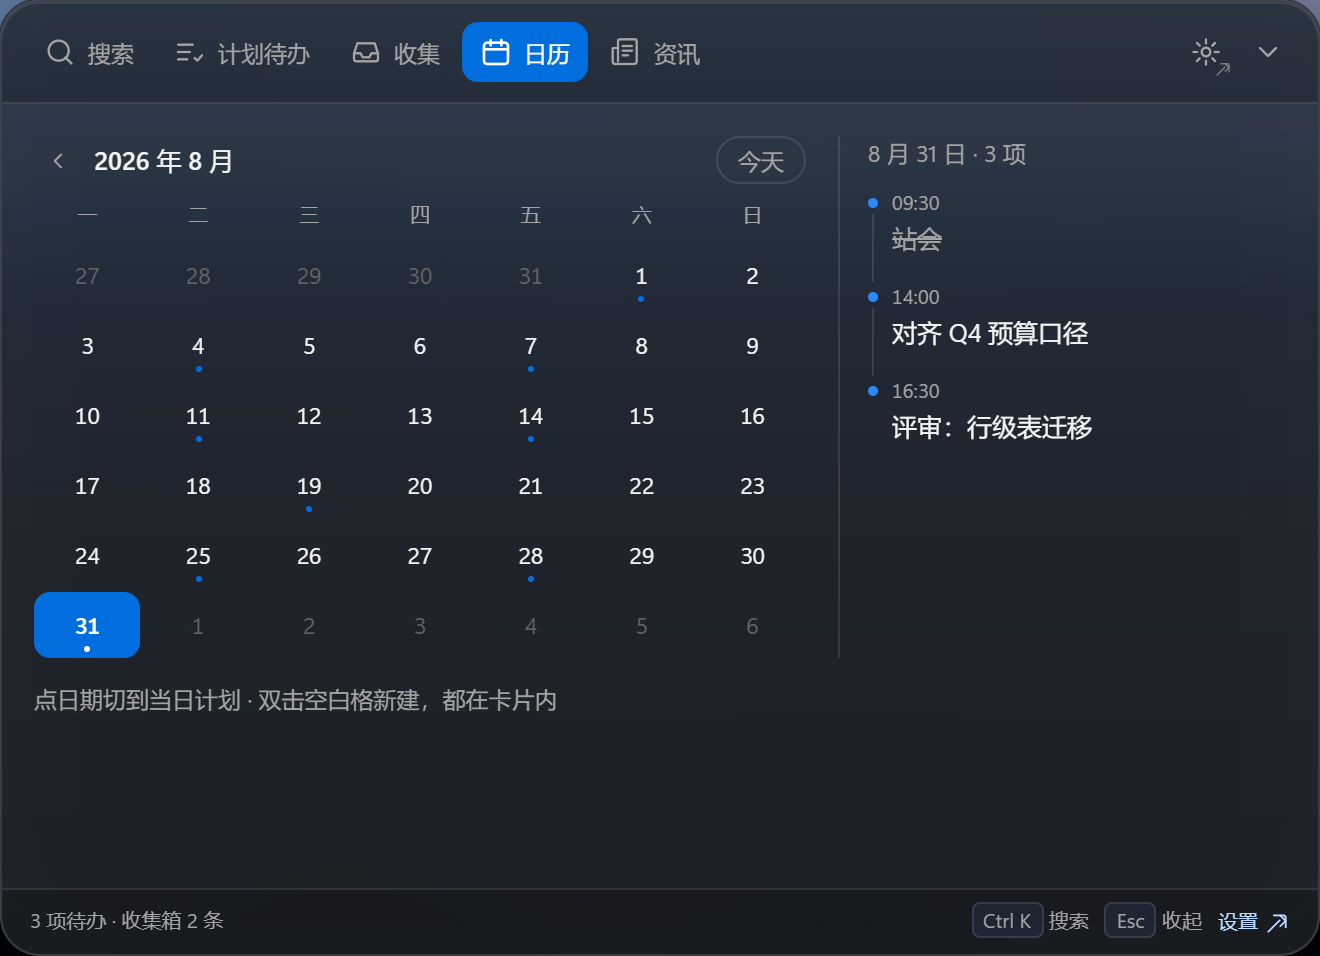
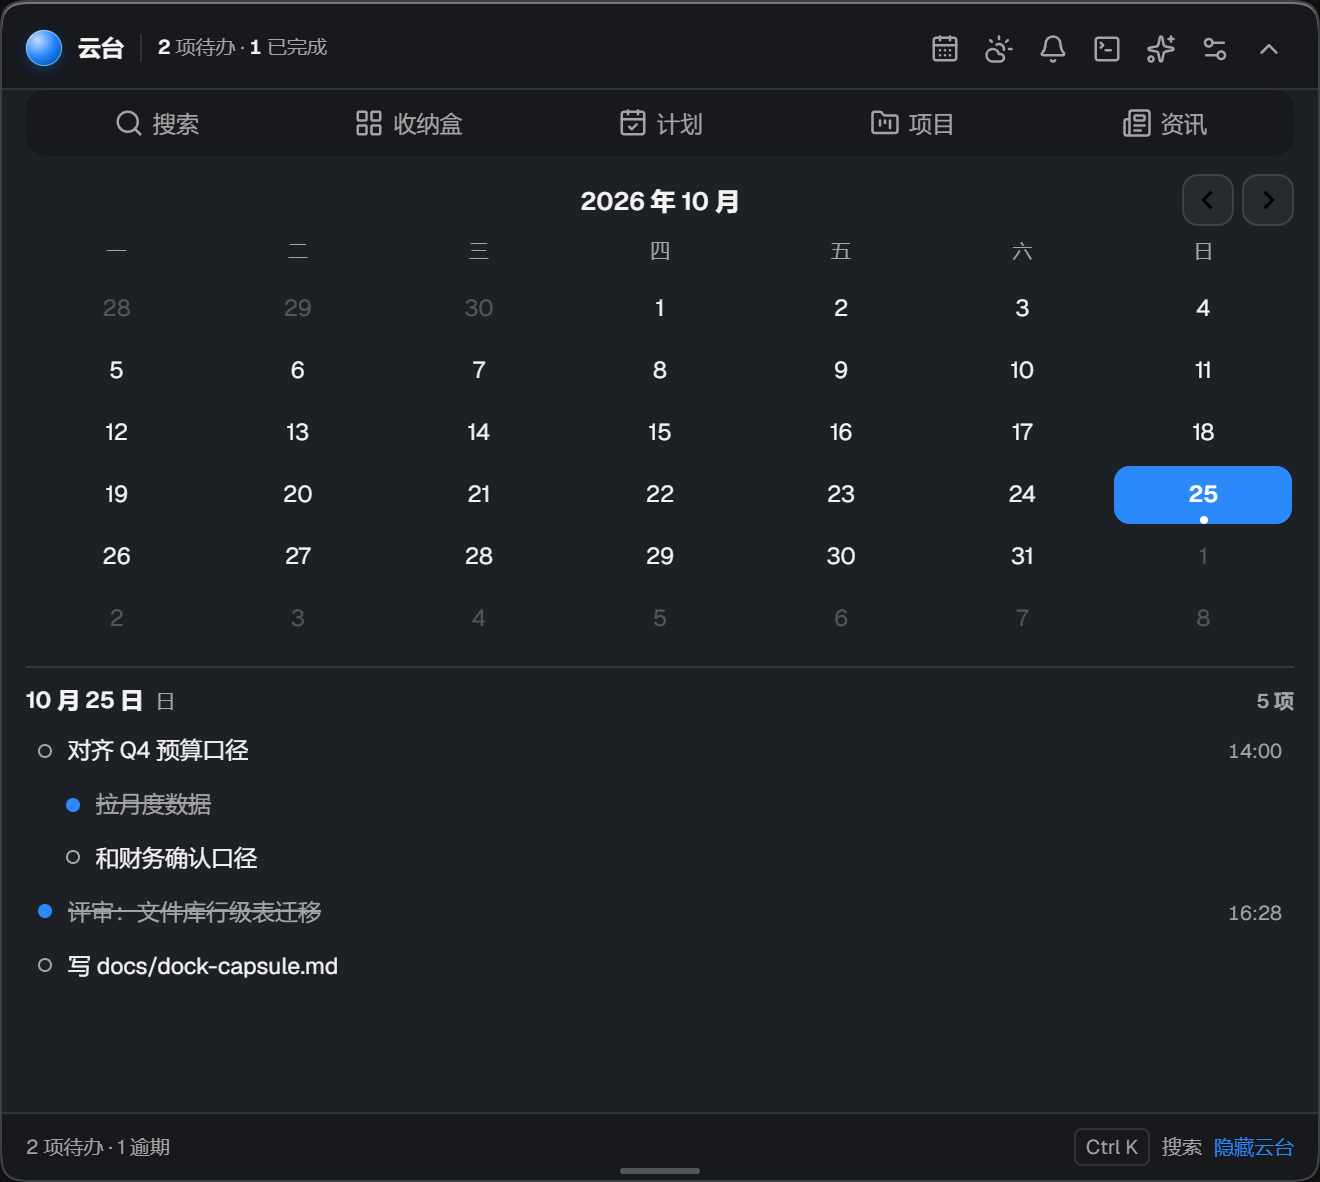
feat(桌面Dock)：日历换成 react-day-picker，固定六周避免切月时卡片跳高

diff --git a/src/features/desktop/dock-float.tsx b/src/features/desktop/dock-float.tsx
@@ -8,7 +8,7 @@ import {
   Bell, CalendarDays, CloudSun, FolderKanban, SquareTerminal, Inbox, LayoutGrid, Newspaper, Rss, Search, Send, Settings2, Sparkles, Star, Trash2,
 } from "lucide-react";
 import { usePlans } from "@/features/plans/store";
-import { todayStr } from "@/features/plans/types";
+import { todayStr, type PlanTask } from "@/features/plans/types";
 import { openSearchResult, searchQuery } from "@/features/search/api";
 import type { SearchHit } from "@/features/search/types";
 import { mergedSources } from "@/sources/custom";
@@ -18,7 +18,7 @@ import { useFavorites } from "@/stores/favorites";
 import { ArticleReader } from "@/features/feeds/article-reader";
 import { openUrl } from "@/lib/tauri";
 import { useSettings } from "@/stores/settings";
-import { SchedulePage } from "@/features/schedule/page";
+import { DayPicker, type DayProps } from "react-day-picker";
 import { chatWithProvider, type ChatMessage } from "@/features/ai/client";
 import { ageBucket, dateKey, summarizeDay } from "./dock-float-core";
 import "./dock-float.css";
@@ -346,7 +346,7 @@ export function DockFloat({ onExpand, onHide, panels }: {
               <div className="df-collect">{panels.capture}</div>
             )}
             {tab === "news" && <NewsPanel />}
-            {tab === "cal" && <div className="df-embed"><SchedulePage /></div>}
+            {tab === "cal" && <CalendarPanel />}
             {tab === "chat" && <div className="df-body-inner"><ChatPanel onClose={() => setTab("search")} /></div>}
             {tab === "weather" && <WeatherPanel />}
             {tab === "notice" && <NoticePanel onOpenPlans={() => setTab("plans")} />}
@@ -548,6 +548,133 @@ function NewsPanel() {
           </div>
         );
       })}
+    </div>
+  );
+}
+
+/**
+ * 日历页：react-day-picker + 项目 token。
+ *
+ * **不 import 它自带的 style.css**：默认样式表会覆盖 tokens 的字号、圆角与颜色。
+ * 这里只用 classNames / components.Day 接结构，所有视觉值都走 var(--...)；
+ * fixedWeeks 保证 6 行恒定，切月份不会把卡片高度顶来顶去。
+ */
+function CalendarDay({ day, modifiers, className, children, ...props }: DayProps) {
+  return (
+    <td
+      {...props}
+      data-date={dateKey(day.date)}
+      className={["df-calpicker-cell", className, modifiers.hasTasks ? "has-tasks" : ""]
+        .filter(Boolean)
+        .join(" ")}
+    >
+      {children}
+      {modifiers.hasTasks && <span className="df-calpicker-dot" aria-hidden="true" />}
+    </td>
+  );
+}
+
+function CalendarPanel() {
+  const { t } = useTranslation();
+  const days = usePlans((state) => state.days);
+  const [selectedDate, setSelectedDate] = useState(() => new Date());
+
+  const hasTasks = useCallback(
+    (date: Date) => (days[dateKey(date)]?.length ?? 0) > 0,
+    [days],
+  );
+
+  /** 当天条目按树展开：父任务在前，子任务缩进跟在后面。 */
+  const rows = useMemo(() => {
+    const tasks = days[dateKey(selectedDate)] ?? [];
+    const output: { task: PlanTask; depth: number }[] = [];
+    const seen = new Set<string>();
+    const walk = (parentId: string | null, depth: number) => {
+      for (const task of tasks) {
+        if (task.parentId !== parentId) continue;
+        seen.add(task.id);
+        output.push({ task, depth });
+        walk(task.id, depth + 1);
+      }
+    };
+    walk(null, 0);
+    // 数据异常时别把孤儿任务吞掉（父 id 指向已删除的条目）
+    for (const task of tasks) if (!seen.has(task.id)) output.push({ task, depth: 0 });
+    return output;
+  }, [days, selectedDate]);
+
+  const weekday = ["su", "mo", "tu", "we", "th", "fr", "sa"][selectedDate.getDay()];
+  return (
+    <div className="df-calendar">
+      <DayPicker
+        mode="single"
+        selected={selectedDate}
+        onSelect={(date) => { if (date) setSelectedDate(date); }}
+        showOutsideDays
+        fixedWeeks
+        weekStartsOn={1}
+        modifiers={{ hasTasks }}
+        modifiersClassNames={{ hasTasks: "has-tasks" }}
+        components={{ Day: CalendarDay }}
+        formatters={{
+          formatCaption: (month) =>
+            t("dockFloat.calendarMonth", { year: month.getFullYear(), month: month.getMonth() + 1 }),
+          formatWeekdayName: (date) =>
+            t(`dockFloat.week.${["su", "mo", "tu", "we", "th", "fr", "sa"][date.getDay()]}`),
+        }}
+        labels={{
+          labelPrevious: () => t("dockFloat.prevMonth"),
+          labelNext: () => t("dockFloat.nextMonth"),
+        }}
+        classNames={{
+          root: "df-calpicker",
+          months: "df-calpicker-months",
+          month: "df-calpicker-month",
+          month_caption: "df-calpicker-caption",
+          caption_label: "df-calpicker-caption-label",
+          nav: "df-calpicker-nav",
+          button_previous: "df-calpicker-nav-btn",
+          button_next: "df-calpicker-nav-btn",
+          month_grid: "df-calpicker-grid",
+          weekdays: "df-calpicker-weekdays",
+          weekday: "df-calpicker-weekday",
+          week: "df-calpicker-week",
+          day_button: "df-calpicker-day",
+          selected: "is-selected",
+          today: "is-today",
+          outside: "is-outside",
+          disabled: "is-disabled",
+          hidden: "is-hidden",
+        }}
+      />
+      <div className="df-calendar-day">
+        <div className="df-calendar-day-head">
+          <span>
+            {t("dockFloat.calendarDayTitle", { month: selectedDate.getMonth() + 1, day: selectedDate.getDate() })}
+            <span className="df-calendar-weekday">{t(`dockFloat.week.${weekday}`)}</span>
+          </span>
+          <span className="df-row-meta">{t("dockFloat.calendarCount", { count: rows.length })}</span>
+        </div>
+        {rows.length === 0 ? (
+          <p className="df-hint">{t("dockFloat.dayEmpty")}</p>
+        ) : (
+          <div className="df-calendar-list">
+            {rows.map(({ task, depth }) => (
+              <div key={task.id} className="df-calendar-row" style={{ paddingLeft: 6 + depth * 14 }}>
+                <span className={`df-calendar-mark${task.done ? " is-done" : ""}`} aria-hidden="true" />
+                <span className="df-calendar-row-main">
+                  <span className={`df-calendar-title${task.done ? " is-done" : ""}`}>{task.title}</span>
+                  {(task.start || task.end) && (
+                    <span className="df-row-meta">
+                      {task.start ?? ""}{task.end ? ` – ${task.end}` : ""}
+                    </span>
+                  )}
+                </span>
+              </div>
+            ))}
+          </div>
+        )}
+      </div>
     </div>
   );
 }

diff --git a/src/features/desktop/dock-float.css b/src/features/desktop/dock-float.css
@@ -785,6 +785,104 @@
 .df-home .df-cal-week span { font-size: 10px; }
 .df-home .df-cal-dot { bottom: 2px; width: 3px; height: 3px; margin-left: -1.5px; }
 
+/* 日历页：react-day-picker 的结构 + 项目 token（不引它自带的 style.css） */
+.df-calendar { display: flex; flex-direction: column; gap: 8px; height: 100%; min-height: 0; }
+.df-calpicker { position: relative; flex: none; width: 100%; }
+.df-calpicker-months, .df-calpicker-month { width: 100%; }
+.df-calpicker-caption { display: flex; align-items: center; justify-content: center; height: 28px; padding: 0 58px; }
+.df-calpicker-caption-label { color: var(--foreground); font-size: var(--pr-text-sm); font-weight: var(--pr-weight-semibold); }
+.df-calpicker-nav { position: absolute; top: 0; right: 0; display: flex; gap: 4px; }
+.df-calpicker-nav-btn {
+  display: grid;
+  place-items: center;
+  width: 26px;
+  height: 26px;
+  border: 1px solid var(--hairline);
+  border-radius: var(--pr-radius-sm);
+  background: var(--dock-face);
+  color: var(--muted-foreground);
+  cursor: pointer;
+}
+.df-calpicker-nav-btn:hover { background: var(--surface-hover); color: var(--foreground); }
+.df-calpicker-nav-btn:disabled { opacity: 0.35; cursor: default; }
+.df-calpicker-nav-btn svg { width: 14px; height: 14px; }
+.df-calpicker-grid { width: 100%; border-collapse: collapse; table-layout: fixed; }
+.df-calpicker-weekday {
+  padding: 3px 0 5px;
+  color: var(--muted-foreground);
+  font-size: var(--pr-text-2xs);
+  font-weight: 500;
+  text-align: center;
+}
+.df-calpicker-cell { position: relative; padding: 1px; text-align: center; }
+.df-calpicker-day {
+  width: 100%;
+  height: 29px;
+  border: 0;
+  border-radius: var(--pr-radius-sm);
+  background: transparent;
+  color: var(--foreground);
+  font: inherit;
+  font-size: var(--pr-text-xs);
+  cursor: pointer;
+  transition: background var(--pr-dur-fast) ease, color var(--pr-dur-fast) ease;
+}
+.df-calpicker-day:hover { background: var(--surface-hover); }
+.df-calpicker-cell.is-outside .df-calpicker-day { color: var(--muted-foreground); opacity: 0.4; }
+.df-calpicker-cell.is-today .df-calpicker-day {
+  color: var(--brand);
+  font-weight: var(--pr-weight-semibold);
+  box-shadow: inset 0 0 0 1px color-mix(in oklab, var(--brand) 42%, transparent);
+}
+.df-calpicker-cell.is-selected .df-calpicker-day { background: var(--brand); color: var(--primary-foreground); }
+.df-calpicker-cell.is-disabled { opacity: 0.35; }
+.df-calpicker-cell.is-hidden { visibility: hidden; }
+.df-calpicker-dot {
+  position: absolute;
+  bottom: 1px;
+  left: 50%;
+  width: 4px;
+  height: 4px;
+  margin-left: -2px;
+  border-radius: 999px;
+  background: var(--brand);
+  pointer-events: none;
+}
+.df-calpicker-cell.is-selected .df-calpicker-dot { background: var(--primary-foreground); }
+.df-calendar-day {
+  display: flex;
+  flex: 1;
+  min-height: 0;
+  flex-direction: column;
+  gap: 4px;
+  padding-top: 7px;
+  border-top: 1px solid var(--hairline);
+}
+.df-calendar-day-head {
+  display: flex;
+  align-items: baseline;
+  justify-content: space-between;
+  gap: 8px;
+  color: var(--foreground);
+  font-size: var(--pr-text-xs);
+  font-weight: var(--pr-weight-semibold);
+}
+.df-calendar-weekday { margin-left: 6px; color: var(--muted-foreground); font-size: var(--pr-text-2xs); font-weight: 400; }
+.df-calendar-list { display: flex; flex: 1; min-height: 0; flex-direction: column; gap: 1px; overflow: auto; }
+.df-calendar-row { display: flex; align-items: center; gap: 8px; padding: 4px 6px; border-radius: var(--pr-radius-sm); }
+.df-calendar-row:hover { background: var(--surface-hover); }
+.df-calendar-mark {
+  width: 7px;
+  height: 7px;
+  flex: none;
+  border: 1.5px solid var(--muted-foreground);
+  border-radius: 999px;
+}
+.df-calendar-mark.is-done { border-color: var(--brand); background: var(--brand); }
+.df-calendar-row-main { display: flex; min-width: 0; flex: 1; align-items: baseline; justify-content: space-between; gap: 8px; }
+.df-calendar-title { min-width: 0; overflow: hidden; text-overflow: ellipsis; white-space: nowrap; font-size: var(--pr-text-xs); }
+.df-calendar-title.is-done { color: var(--muted-foreground); text-decoration: line-through; }
+
 /* 嵌入主窗口整页：卡片里给它一个可滚动的完整高度，内部布局由页面自己负责 */
 .df-embed { flex: 1; min-height: 0; overflow: auto; }
 .df-embed > * { min-height: 100%; }

diff --git a/src/lib/locales/zh.ts b/src/lib/locales/zh.ts
@@ -83,6 +83,9 @@ export const zh = {
     planEmpty: "今天还没有待办。",
     subtasks: "子 {{done}}/{{total}}",
     monthTitle: "{{month}} 月",
+    calendarMonth: "{{year}} 年 {{month}} 月",
+    calendarDayTitle: "{{month}} 月 {{day}} 日",
+    calendarCount: "{{count}} 项",
     today: "今天",
     week: { mo: "一", tu: "二", we: "三", th: "四", fr: "五", sa: "六", su: "日" },
     dayEmpty: "这一天没有安排。",

diff --git a/src/lib/locales/en.ts b/src/lib/locales/en.ts
@@ -86,6 +86,9 @@ export const en: AppMessages = {
     planEmpty: "No todos for today yet.",
     subtasks: "{{done}}/{{total}} sub",
     monthTitle: "Month {{month}}",
+    calendarMonth: "{{month}}/{{year}}",
+    calendarDayTitle: "{{month}}/{{day}}",
+    calendarCount: "{{count}} items",
     today: "Today",
     week: { mo: "M", tu: "T", we: "W", th: "T", fr: "F", sa: "S", su: "S" },
     dayEmpty: "Nothing planned for this day.",
